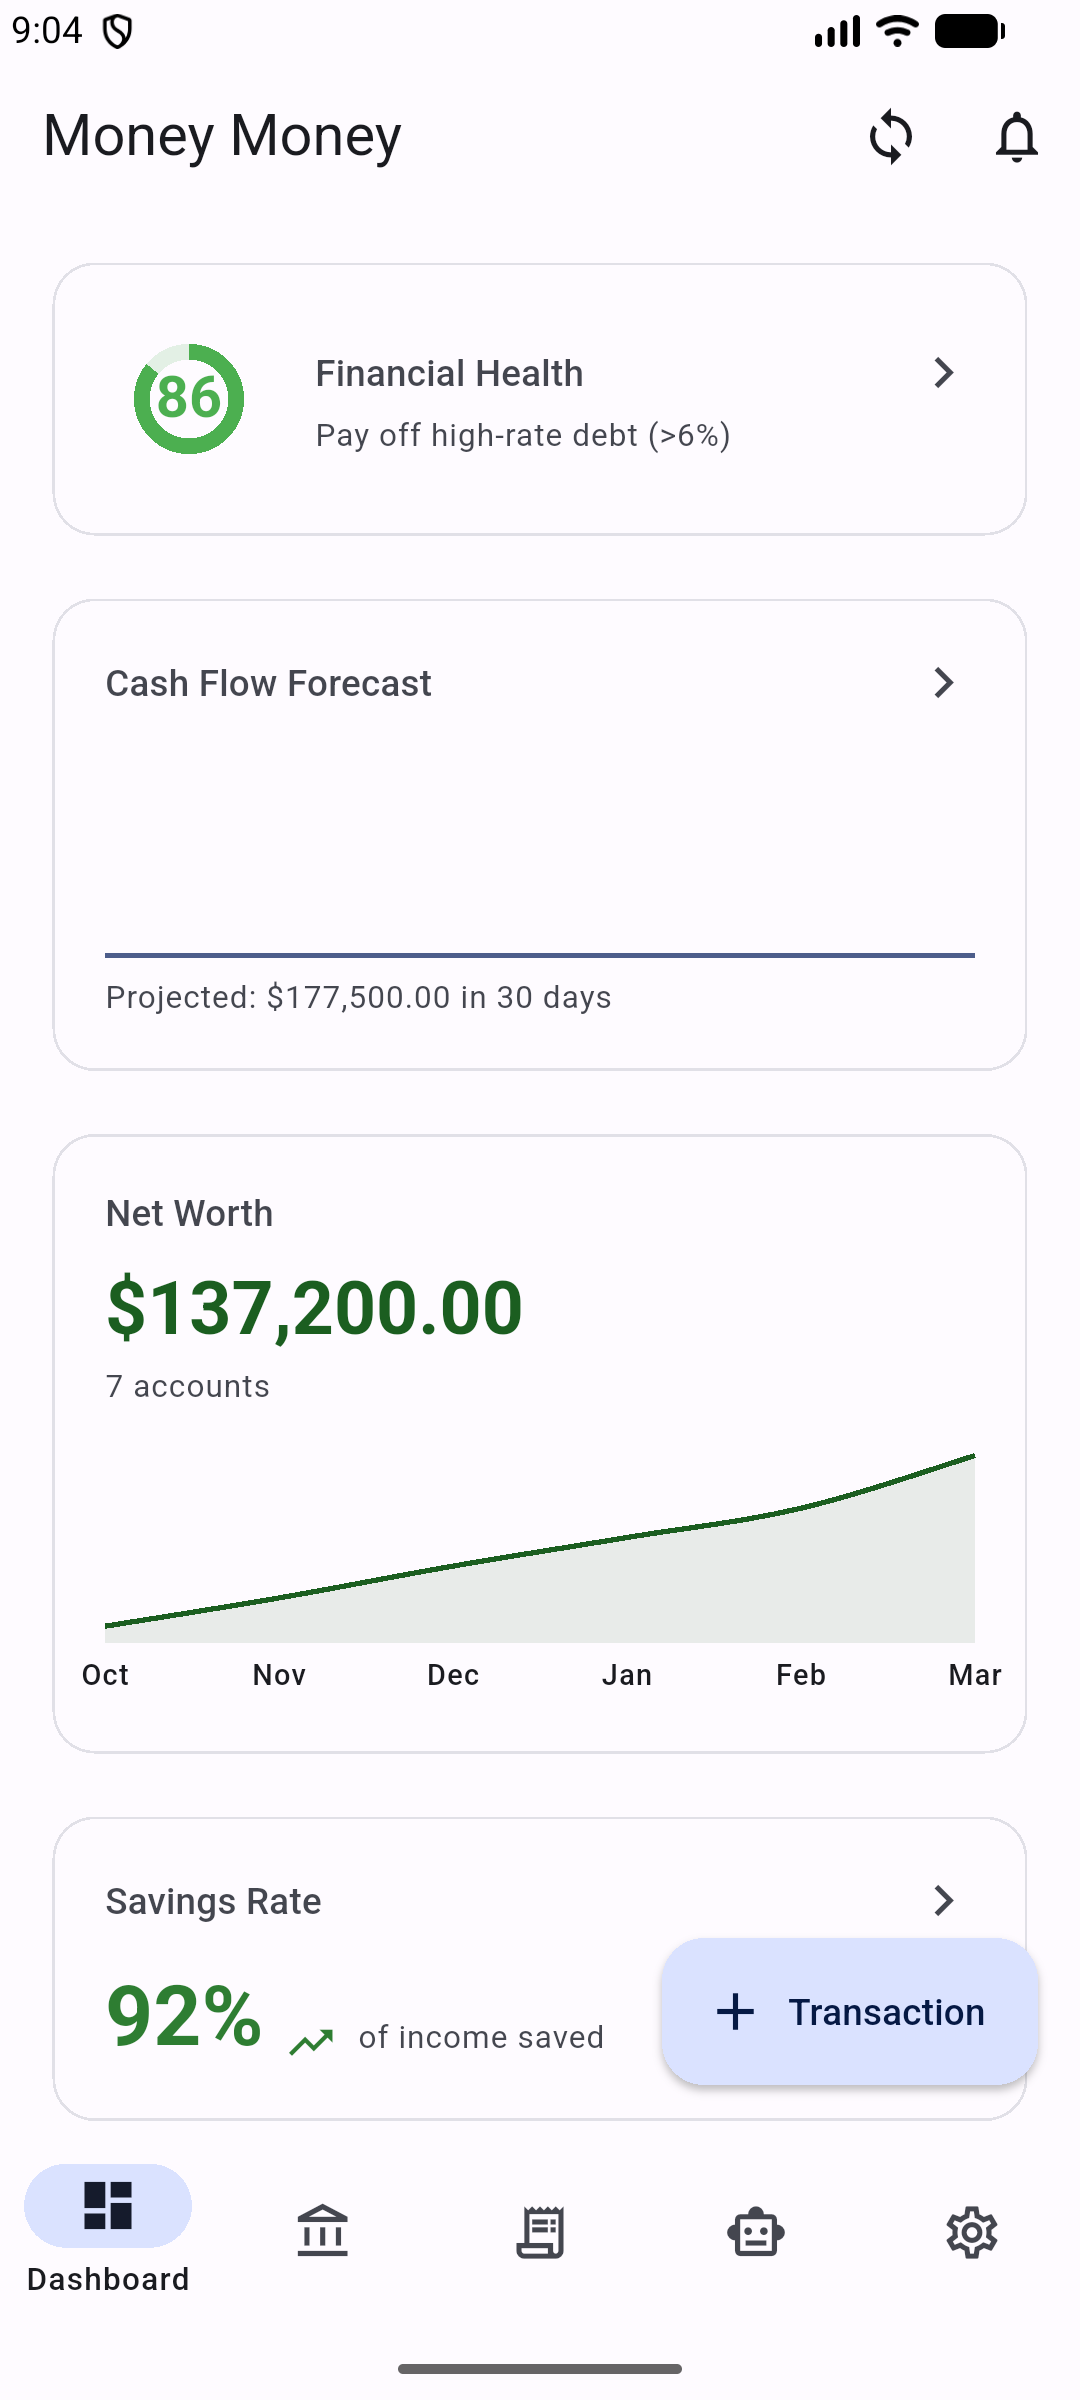
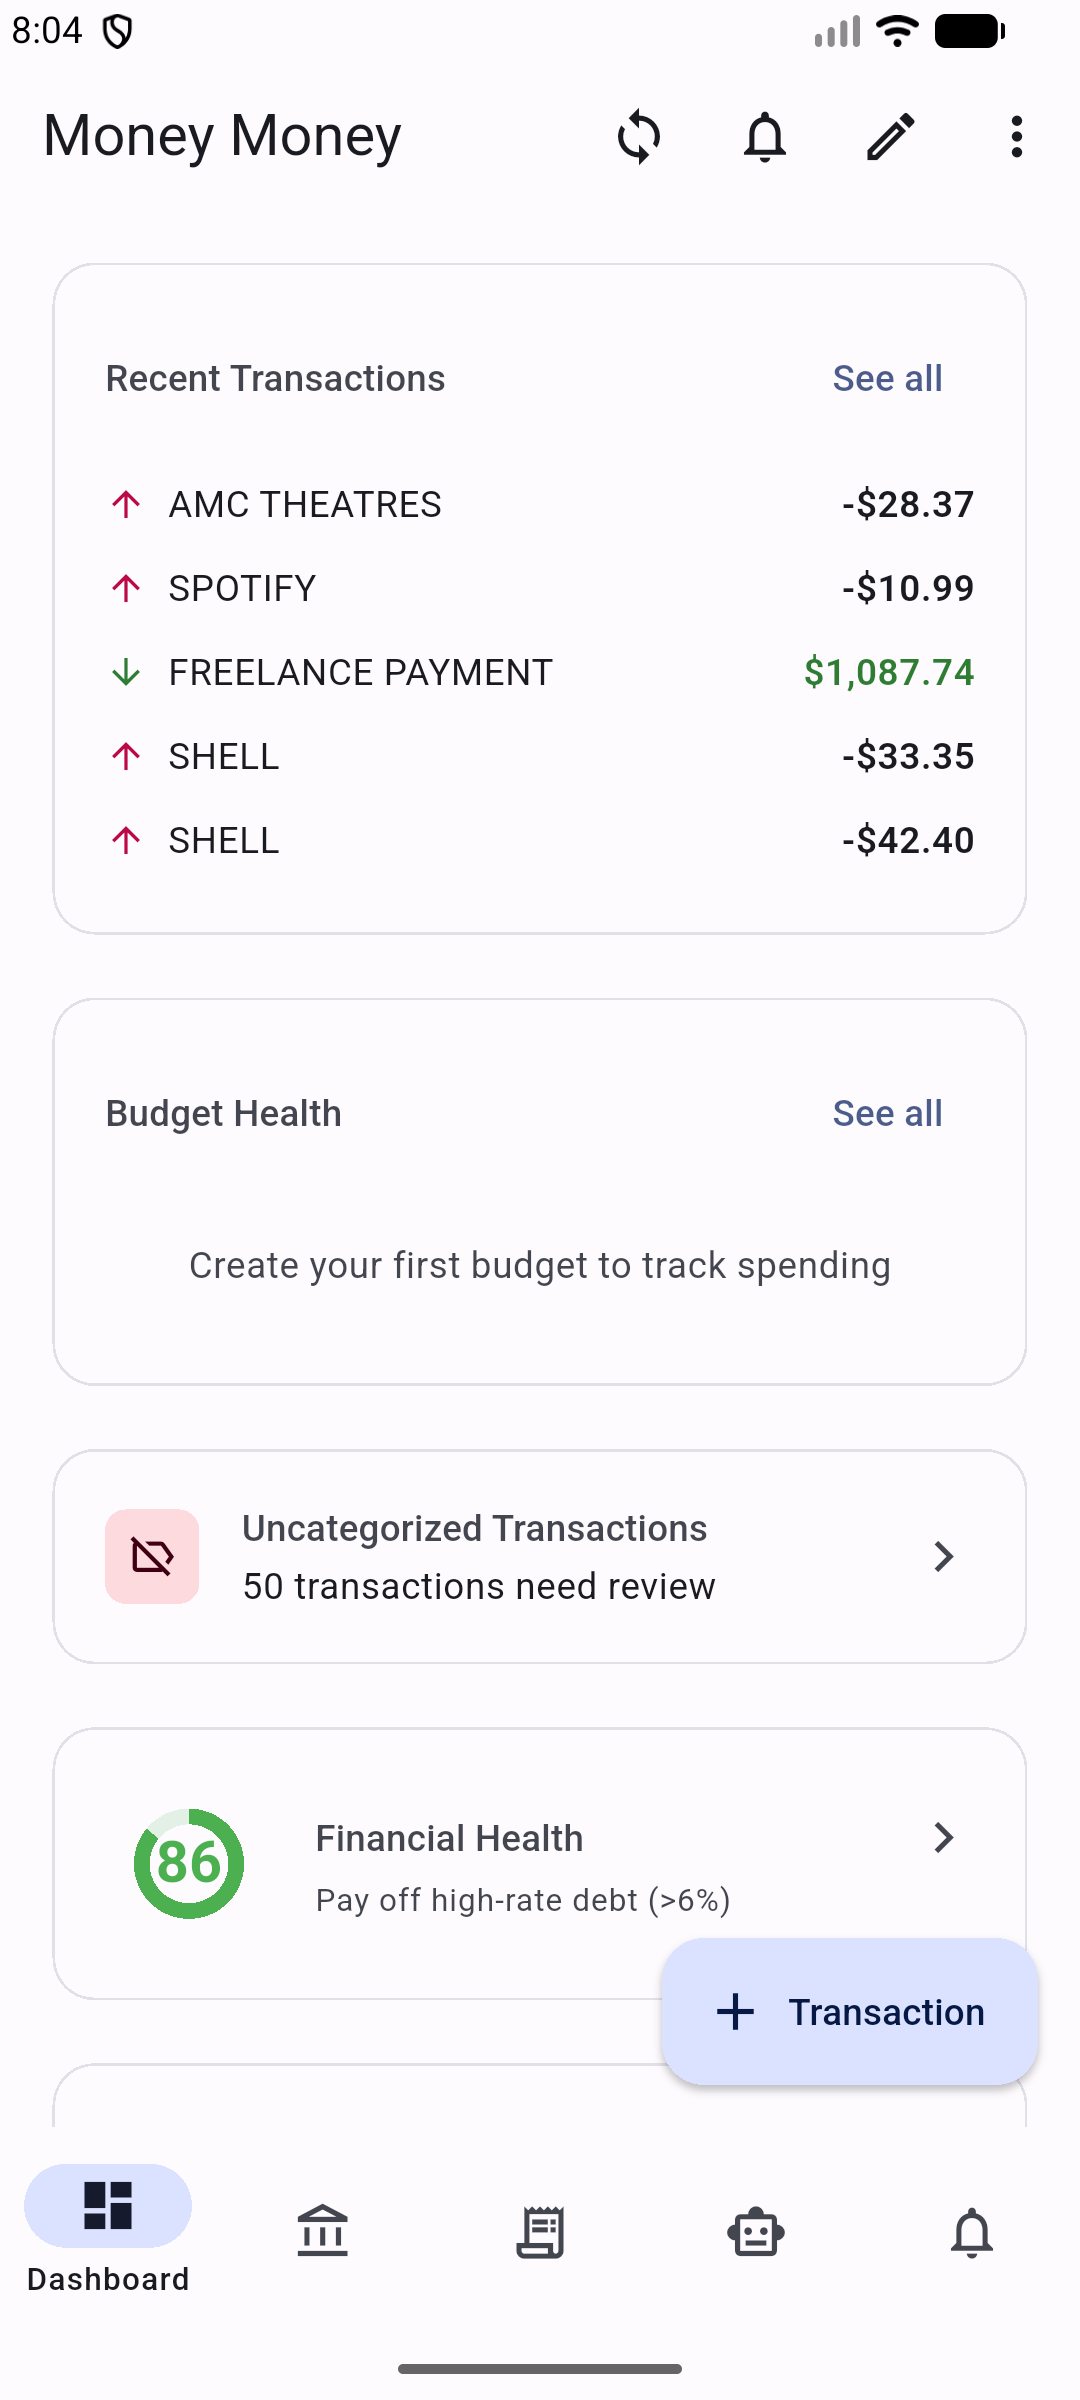
docs: update README and screenshots for v0.4.6
Updated all screenshots from emulator with current build. Added new
screenshots for dashboard charts and edit mode. Updated feature list
with customizable dashboard section, project status table, and
screenshot gallery.

diff --git a/README.md b/README.md
@@ -10,6 +10,13 @@ A personal finance management app built with Flutter, featuring local-first data
 
 ## Features
 
+### Customizable Dashboard (v0.4.6)
+- **17 dashboard cards** — health score, forecast, net worth, savings rate, cash flow, spending charts, budgets, investments, mortgage, retirement, recent transactions, upcoming bills, goal progress, uncategorized nudge, income vs expense trend, subscription tracker
+- **Edit mode** — drag to reorder, show/hide cards, toggle card size (full/half width on desktop)
+- **Auto-hiding cards** — cards with no relevant data hide automatically (e.g., subscriptions card when no subscriptions detected)
+- **Responsive layout** — single column on phone, multi-column on desktop with half-width card support
+- **Persistent layout** — card order and visibility saved across app restarts
+
 ### Financial Guidance (v0.4.0)
 - **Financial Health Score** — 0-100 composite score from 6 weighted pillars (emergency fund, debt-to-income, savings rate, budget adherence, net worth trend, retirement readiness) with a priority ladder telling you what to focus on next
 - **Cash Flow Forecasting** — Projects account balances 30/60/90 days forward using recurring transactions, flags upcoming low-balance dates
@@ -18,10 +25,10 @@ A personal finance management app built with Flutter, featuring local-first data
 - **Debt Payoff Planner** — Snowball vs avalanche strategy comparison with interest savings calculation and per-debt payoff timelines
 
 ### Core Features
-- **PIN Security** — PBKDF2-HMAC-SHA256 hashed PIN with auto-lock on backgrounding
+- **PIN Security** — PBKDF2-HMAC-SHA256 hashed PIN with optional auto-lock on backgrounding
 - **Accounts** — Track 18 account types (checking, savings, credit card, investment, etc.) with full CRUD
 - **Transactions** — Record income and expenses with category tagging, filtering, and search
-- **Dashboard** — At-a-glance summary with health score, forecast, net worth trend, savings rate, cash flow, budget health, spending breakdown, and AI insights
+- **Dashboard** — Customizable card-based overview with 17 financial widgets
 - **Categories** — 16 expense and 7 income parent categories with subcategories, seeded on first launch
 - **Bank Connectivity** — SimpleFIN integration with multi-login support, automatic account sync
 - **CSV Import** — Column mapping, preview, and import history
@@ -70,14 +77,15 @@ The AI assistant provides natural language chat and dashboard insights by sendin
 
 <p align="center">
   <img src="docs/screenshots/dashboard.png" width="180" alt="Dashboard">
+  <img src="docs/screenshots/dashboard_charts.png" width="180" alt="Charts">
+  <img src="docs/screenshots/edit_mode.png" width="180" alt="Edit Mode">
   <img src="docs/screenshots/accounts.png" width="180" alt="Accounts">
   <img src="docs/screenshots/transactions.png" width="180" alt="Transactions">
   <img src="docs/screenshots/ai.png" width="180" alt="AI Assistant">
-  <img src="docs/screenshots/settings.png" width="180" alt="Settings">
 </p>
 
 <p align="center">
-  <em>Dashboard &bull; Accounts &bull; Transactions &bull; AI Assistant &bull; Settings</em>
+  <em>Dashboard &bull; Charts &bull; Edit Mode &bull; Accounts &bull; Transactions &bull; AI Assistant</em>
 </p>
 
 ## Platforms
@@ -132,6 +140,7 @@ flutter build apk --release
 | Phase 2 — Accounts & Transactions | Complete | Accounts CRUD, transactions CRUD, dashboard, category picker |
 | Phase 3 — Bank Connectivity | Complete | SimpleFIN sync, CSV import, budgets, goals, recurring detection, auto-categorization, AI assistant, retirement projections (Monte Carlo), architecture hardening |
 | Phase 4 — Forward-Looking Finance | Complete | Financial health score, cash flow forecasting, savings rate analytics, smart alerts, debt payoff planner (v0.4.0) |
+| Phase 5 — Dashboard Customization | Complete | Customizable dashboard with 17 cards, edit mode, responsive layout, 5 new visualization cards (v0.4.6) |
 
 ## Dev Data Seeder
 
